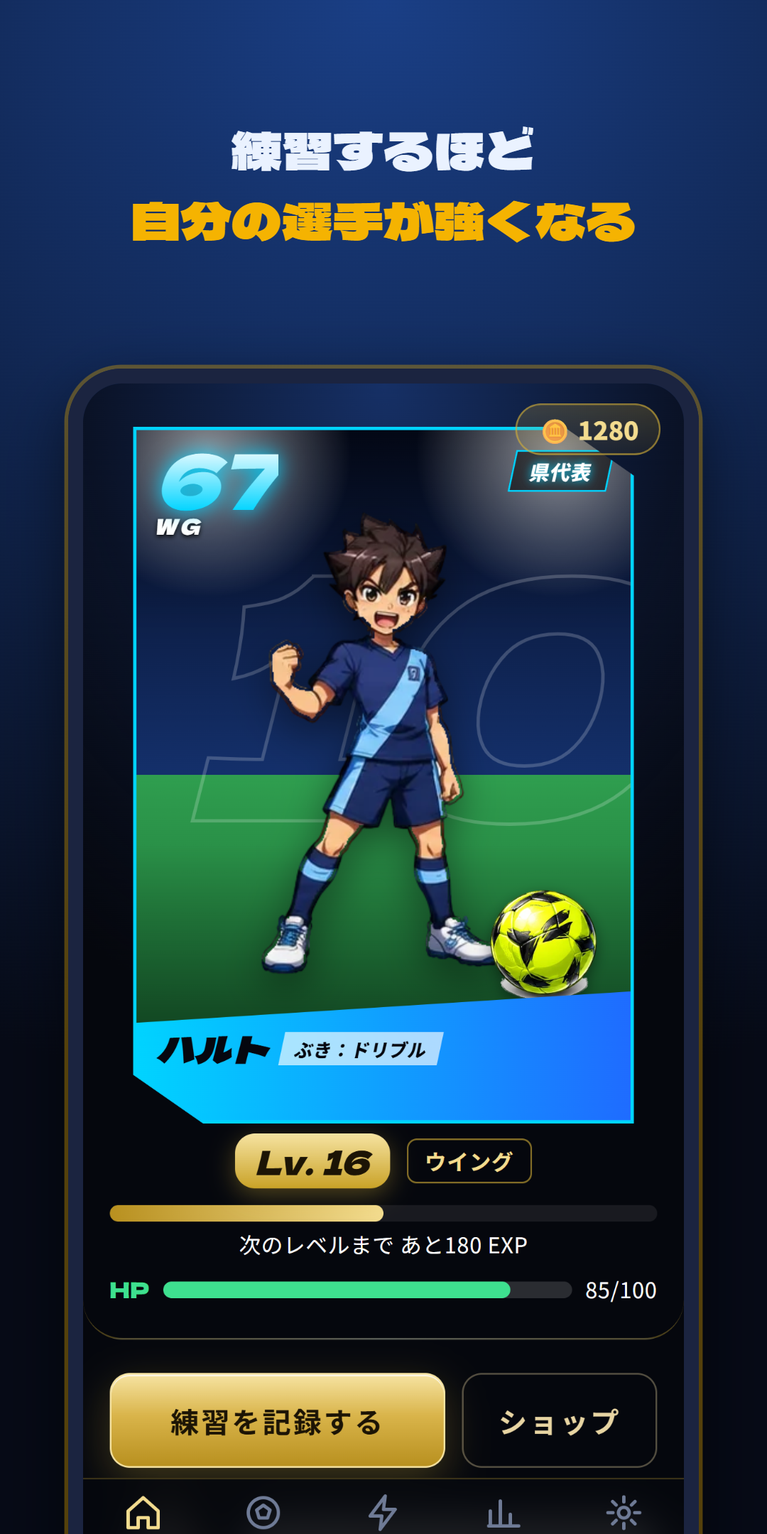
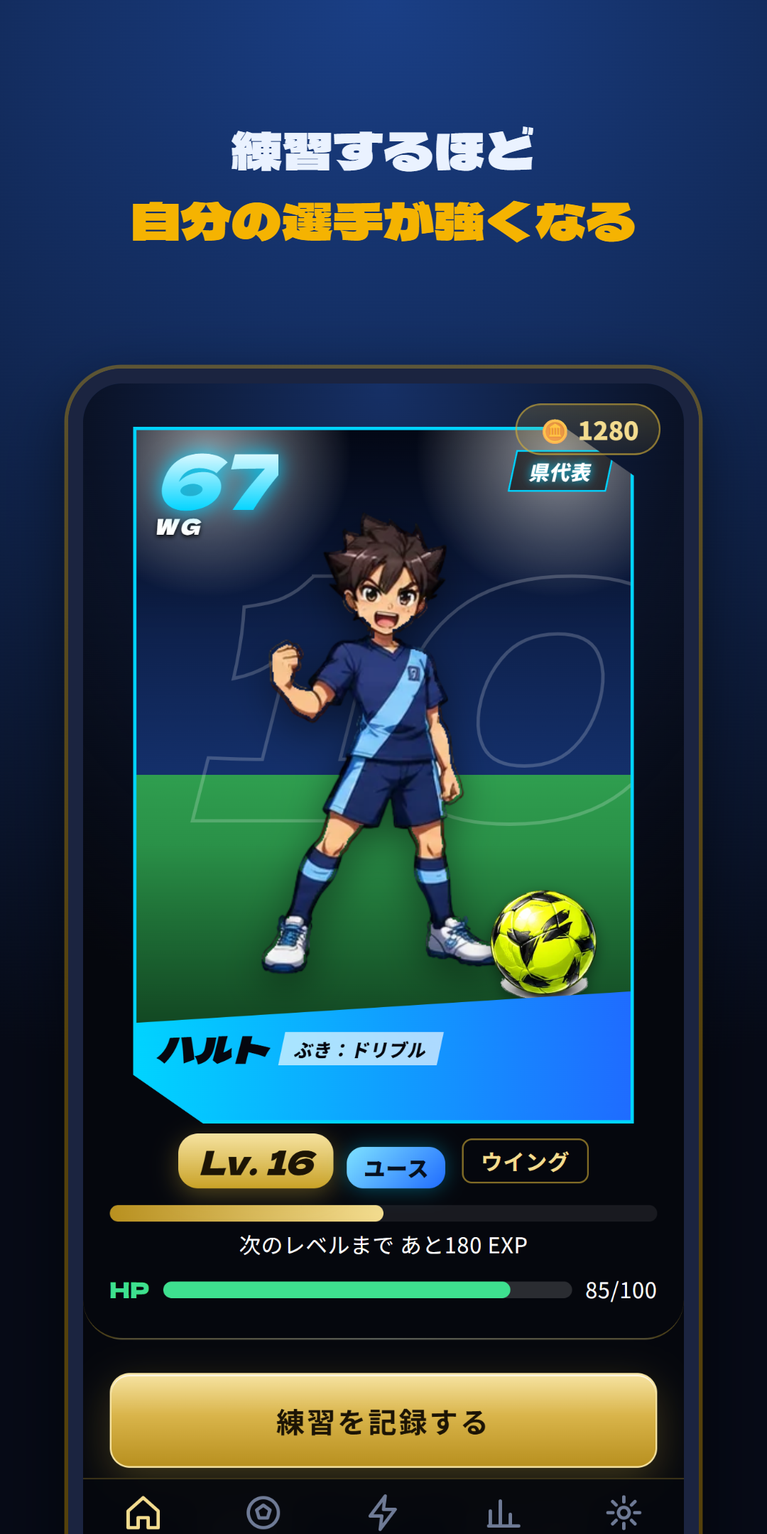
v0.8.0：階級・能力ランク・熟練度メダル・個人技スキル・つよさ画面
- 階級を追加（はじめたばかり→キッズ→ジュニア→ジュニアユース→ユース→アマチュア→プロ→レジェンド）。成長ステージと同じレベルで「昇格！」
- 9つの能力に S〜G のランクと、メダルの色（ビギナー・ブロンズ・シルバー・ゴールド・プラチナ・ダイヤ）
- 練習メニューごとの熟練度メダル（同じ練習の回数で上がる）。一覧・詳細・結果画面に表示
- 個人技スキルを札形式（金スキル・技スキル・心がまえ）にして 12→43 種類に。練習回数で習得、「あと◯回」を表示
- 「つよさ」画面を追加（能力ランク・装備・習得スキルの一覧）。ホームから開ける
- ストア用スクリーンショットを撮り直し（つよさ画面・スキル画面を追加して6枚に）
- テストを追加（25件）
- main（奥さんの v0.6.3〜0.6.5）を取りこみ済み

Changed region(s): [[0.2139, 0.8685, 0.8556, 0.9616], [0.2139, 0.7134, 0.7333, 0.8065]]

diff --git a/app.js b/app.js
@@ -259,20 +259,62 @@ const GEAR = [
   {lv:10, name:'オーラ'}, {lv:15, name:'王冠'}, {lv:20, name:'翼'},
 ];
 /* スキル＝呪文。条件にコーディネーション能力（定位・変換・連結・反応・識別・リズム・バランス）の考え方を使う */
+/* 個人技スキル。tier：gold＝とくに難しい技／blue＝技／green＝心がまえ。name が保存のキー（変えない）
+   need:[練習メニュー, 回数] があるものは「あと◯回」を表示する */
+const SKILL_TIER={gold:{name:'金スキル',ic:'🌟'},blue:{name:'技スキル',ic:'⚽'},green:{name:'心がまえ',ic:'🍀'}};
+const SK=(tier,name,how,ok,need)=>({tier,name,how,ok,need});
+const mcount=(s,id)=>s.logs.filter(l=>l.menu===id).length;
+const mneed=(id,n)=>s=>mcount(s,id)>=n;
 const SKILLS = [
-  {name:'またぎフェイント',  how:'ドリブルを3回練習（リズム）',            ok:s=>cnt(s,'dribble')>=3},
-  {name:'ダブルタッチ',      how:'ドリブル60（連結）',                    ok:s=>rt(s,'dribble')>=60},
-  {name:'クライフターン',    how:'アジリティ60・ドリブル55（変換）',       ok:s=>rt(s,'agility')>=60&&rt(s,'dribble')>=55},
-  {name:'ルーレット',        how:'ドリブル75・ボールタッチ65・バランス60（バランス）', ok:s=>rt(s,'dribble')>=75&&rt(s,'touch')>=65&&rt(s,'balance')>=60},
-  {name:'ヒールリフト',      how:'リフティング連続50回（識別）',           ok:s=>(s.best.lift||0)>=50},
-  {name:'高速カットイン',    how:'スピード65・アジリティ60（反応）',       ok:s=>rt(s,'speed')>=65&&rt(s,'agility')>=60},
-  {name:'インステップキック',how:'シュートを3回練習',                      ok:s=>cnt(s,'shoot')>=3},
-  {name:'コントロールシュート',how:'キック65（識別）',                      ok:s=>rt(s,'kick')>=65},
-  {name:'ボレーシュート',    how:'キック60・バランス60（連結）',           ok:s=>rt(s,'kick')>=60&&rt(s,'balance')>=60},
-  {name:'ワンタッチパス',    how:'パスを5回練習（反応）',                  ok:s=>cnt(s,'pass')>=5},
-  {name:'スルーパス',        how:'キック60・判断力65（定位）',             ok:s=>rt(s,'kick')>=60&&rt(s,'iq')>=65},
-  {name:'ハードワーカー',    how:'スタミナ65',                            ok:s=>rt(s,'stamina')>=65},
+  // 金スキル（とくに難しい技）
+  SK('gold','ルーレット','ドリブル75・ボールタッチ65・バランス60',s=>rt(s,'dribble')>=75&&rt(s,'touch')>=65&&rt(s,'balance')>=60),
+  SK('gold','ヒールリフト','リフティング連続50回',s=>(s.best.lift||0)>=50),
+  SK('gold','エラシコ','「エラシコ」を15回練習',mneed('elastico',15),['elastico',15]),
+  SK('gold','無回転シュート','「シュート」を30回練習・キック75',s=>mcount(s,'shoot')>=30&&rt(s,'kick')>=75,['shoot',30]),
+  SK('gold','ノールックパス','「壁パス ワンタッチ」を15回・判断力70',s=>mcount(s,'wall_1t')>=15&&rt(s,'iq')>=70,['wall_1t',15]),
+  SK('gold','ドリブルの魔術師','「コーン相手の1対1」を15回・ドリブル85',s=>mcount(s,'cone_1v1')>=15&&rt(s,'dribble')>=85,['cone_1v1',15]),
+  SK('gold','超高速ドリブル','「スピードドリブル」を15回・スピード75',s=>mcount(s,'speed_drib')>=15&&rt(s,'speed')>=75,['speed_drib',15]),
+  SK('gold','リフティングマスター','リフティング連続200回',s=>(s.best.lift||0)>=200),
+  // 技スキル
+  SK('blue','またぎフェイント','ドリブルを3回練習',s=>cnt(s,'dribble')>=3),
+  SK('blue','ダブルタッチ','ドリブル60',s=>rt(s,'dribble')>=60),
+  SK('blue','クライフターン','アジリティ60・ドリブル55',s=>rt(s,'agility')>=60&&rt(s,'dribble')>=55),
+  SK('blue','高速カットイン','スピード65・アジリティ60',s=>rt(s,'speed')>=65&&rt(s,'agility')>=60),
+  SK('blue','インステップキック','シュートを3回練習',s=>cnt(s,'shoot')>=3),
+  SK('blue','コントロールシュート','キック65',s=>rt(s,'kick')>=65),
+  SK('blue','ボレーシュート','キック60・バランス60',s=>rt(s,'kick')>=60&&rt(s,'balance')>=60),
+  SK('blue','ワンタッチパス','パスを5回練習',s=>cnt(s,'pass')>=5),
+  SK('blue','スルーパス','キック60・判断力65',s=>rt(s,'kick')>=60&&rt(s,'iq')>=65),
+  SK('blue','足裏コントロール','「足裏コロコロ」を7回練習',mneed('sole_roll',7),['sole_roll',7]),
+  SK('blue','インアウト','「インアウト」を5回練習',mneed('inout',5),['inout',5]),
+  SK('blue','L字ターン','「L字（引いて横へ）」を5回練習',mneed('l_drag',5),['l_drag',5]),
+  SK('blue','Vターン','「Vターン」を5回練習',mneed('v_turn',5),['v_turn',5]),
+  SK('blue','ストップ＆ゴー','「ストップ＆ゴー」を5回練習',mneed('stop_go',5),['stop_go',5]),
+  SK('blue','ターンの名手','「ターン練習」を7回練習',mneed('turn_drill',7),['turn_drill',7]),
+  SK('blue','1対1の突破','「コーン相手の1対1」を7回練習',mneed('cone_1v1',7),['cone_1v1',7]),
+  SK('blue','ピタッとトラップ','「トラップ（止めて蹴る）」を7回練習',mneed('trap',7),['trap',7]),
+  SK('blue','浮き球トラップ','「浮き球トラップ」を5回練習',mneed('air_trap',5),['air_trap',5]),
+  SK('blue','ロングフィード','「ロングキック」を5回練習・キック60',s=>mcount(s,'long_kick')>=5&&rt(s,'kick')>=60,['long_kick',5]),
+  SK('blue','四すみシュート','「四すみねらい」を7回練習',mneed('target',7),['target',7]),
+  SK('blue','ヘディング','「ヘディングリフティング」を5回練習',mneed('lift_head',5),['lift_head',5]),
+  SK('blue','爆発ダッシュ','「ダッシュ」を7回練習・スピード60',s=>mcount(s,'dash')>=7&&rt(s,'speed')>=60,['dash',7]),
+  SK('blue','反応スピード','「反応ダッシュ」を7回練習',mneed('react',7),['react',7]),
+  SK('blue','ステップワーク','「ラダー」を7回練習',mneed('ladder',7),['ladder',7]),
+  SK('blue','空中戦','「なわとび（二重跳び）」を7回・パワー60',s=>mcount(s,'jump')>=7&&rt(s,'power')>=60,['jump',7]),
+  SK('blue','両足使い','「両足交互リフティング」を10回練習',mneed('lift_alt',10),['lift_alt',10]),
+  // 心がまえ
+  SK('green','ハードワーカー','スタミナ65',s=>rt(s,'stamina')>=65),
+  SK('green','コツコツ努力家','30日練習する',s=>practiceDays(s)>=30),
+  SK('green','休むのも上手','宿屋で5回休む',s=>s.logs.filter(l=>l.rest).length>=5),
+  SK('green','研究熱心','「練習ノート」を10回書く',mneed('note',10),['note',10]),
+  SK('green','試合で強い','「試合・ミニゲーム」を10回',mneed('game',10),['game',10]),
+  SK('green','チームプレーヤー','「チーム練習」を10回',mneed('team',10),['team',10]),
+  SK('green','ぶれない体幹','「プランク」を10回練習',mneed('core',10),['core',10]),
+  SK('green','負けずぎらい','ライバルに3回勝つ',s=>(s.bossWins||0)>=3),
+  SK('green','自己ベスト更新王','自己ベストを10回更新',s=>s.logs.filter(l=>l.pb).length>=10),
 ];
+/* スキルの進み具合（0〜1）。練習回数で覚えるものだけ */
+const skillProg=(s,k)=>k.need?Math.min(1,mcount(s,k.need[0])/k.need[1]):null;
 
 /* ===== デイリークエスト ===== */
 const QPOOL=[
@@ -351,7 +393,7 @@ function dressed(s,over){
 }
 
 /* ===== アプリ内ダイアログ（ブラウザ標準の alert/confirm は使わない） ===== */
-const APP_VERSION='0.7.0';
+const APP_VERSION='0.8.0';
 function closeOv(){document.getElementById('ov').classList.remove('show')}
 function dialog({icon='',title,msg='',ok='OK',cancel=null,danger=false}){
   return new Promise(res=>{
@@ -695,6 +737,25 @@ const STAGES=[
 ];
 const POSE_OF=[0,0,1,1,2,3,3,4];
 function stageOf(L){let r=0;STAGES.forEach((x,i)=>{if(L>=x.lv)r=i});return r}
+/* 階級：成長ステージ（舞台）と同じレベルで昇格する、選手としての格 */
+const RANKS=['はじめたばかり','キッズ','ジュニア','ジュニアユース','ユース','アマチュア','プロ','レジェンド'];
+const rankOf=L=>RANKS[stageOf(L)];
+/* メダル：ビギナー→ブロンズ→シルバー→ゴールド→プラチナ→ダイヤ */
+const MEDALS=[{name:'ビギナー',k:'beg'},{name:'ブロンズ',k:'brz'},{name:'シルバー',k:'slv'},{name:'ゴールド',k:'gld'},{name:'プラチナ',k:'plt'},{name:'ダイヤ',k:'dia'}];
+/* 能力ランク（S〜G）。数値の帯ごとにメダルの色 */
+function grade(r){
+  const t=[[90,'S',5],[80,'A',4],[70,'B',3],[60,'C',2],[55,'D',1],[50,'E',1],[45,'F',0],[0,'G',0]].find(x=>r>=x[0]);
+  return {g:t[1],m:MEDALS[t[2]],next:r>=90?null:[90,80,70,60,55,50,45].reverse().find(x=>x>r)};
+}
+const gradeTag=r=>{const G=grade(r);return `<b class="grade ${G.m.k}">${G.g}</b>`};
+/* 練習メニューの熟練度：同じメニューを続けた回数でメダルが上がる */
+const MASTERY=[1,3,7,15,30,50];
+function mastery(s,id){
+  const n=s.logs.filter(l=>l.menu===id).length; let i=-1; MASTERY.forEach((x,j)=>{if(n>=x)i=j});
+  return {n,i,m:i>=0?MEDALS[i]:null,next:MASTERY[i+1]||null};
+}
+const medalTag=(M,small)=>M.m?`<span class="medal ${M.m.k}${small?' sm':''}">${M.m.name}</span>`:'';
+
 /* 画像（img/m1_3.png など）が あれば それを、なければ コードの イラストを ひょうじ */
 /* ===== AIイラストのキャラ（選んで使う） ===== */
 const AVATARS=[
@@ -1014,7 +1075,7 @@ function render(){
   nav.classList.remove('hide');
   nav.querySelectorAll('button').forEach(b=>b.classList.toggle('on',b.dataset.tab===tab));
   if(S)wear(S);
-  app.innerHTML={home:homeView,practice:practiceView,skill:titlesView,log:logView,settings:settingsView,shop:shopView,wardrobe:wardrobeView,report:reportView}[tab]();
+  app.innerHTML={status:statusView,home:homeView,practice:practiceView,skill:titlesView,log:logView,settings:settingsView,shop:shopView,wardrobe:wardrobeView,report:reportView}[tab]();
   if(tab==='shop')bindShop();
   if(tab==='wardrobe')bindWardrobe();
   if(tab==='report')bindReport();
@@ -1067,13 +1128,14 @@ function homeView(){
     <button class="coin" onclick="go('shop')" style="position:absolute;right:14px;top:12px;z-index:5">🪙 ${S.coin||0}</button>
     ${cardView(S,L,stageOf(L))}
     ${t?`<div class="title-badge" style="margin-top:10px">${t.ic} ${t.name}</div><br>`:''}
-    <div class="lv">Lv. ${L}</div> <span class="jobtag">${J.name}</span>
+    <div class="lv">Lv. ${L}</div> <span class="ranktag">${rankOf(L)}</span> <span class="jobtag">${J.name}</span>
     <div class="xpbar"><i style="width:${r/n*100}%"></i></div>
     <div class="xptext">次のレベルまで あと${n-r} EXP</div>
     <div class="hprow"><b>HP</b><div class="hpbar"><i style="width:${hp}%;background:${hp<25?'#ff4d4d':hp<50?'#ffb020':'#3ee08f'}"></i></div><span>${hp}/100</span></div>
   </div>
   <div class="wrap">
-    <div class="row" style="margin:4px 0 16px"><button class="btn gold" onclick="go('practice')" style="flex:2">練習を記録する</button><button class="btn ghost" onclick="go('shop')" style="flex:1">ショップ</button></div>
+    <button class="btn gold" onclick="go('practice')" style="margin:4px 0 10px">練習を記録する</button>
+    <div class="row" style="margin:0 0 16px"><button class="btn ghost" onclick="go('status')" style="flex:1">つよさ</button><button class="btn ghost" onclick="go('shop')" style="flex:1">ショップ</button></div>
     ${buddyCard()}
     ${parentMsgCard()}
     ${hp<25?`<div class="card warn">⚠ HPが少なくなっています。疲れがたまるとケガをしやすくなるよ。今日は宿屋で休もう。</div>`:''}
@@ -1107,7 +1169,7 @@ function practiceView(){
     <p class="sub" style="margin:0 0 12px">🌱＝今の年齢で伸びやすい練習（経験×1.5）　★＝むずかしさ</p>
     <div class="gtabs">${GRPS.map(g=>`<button class="gtab ${g.id===pgrp?'on':''}" data-g="${g.id}"><span>${g.ic}</span>${g.name}</button>`).join('')}</div>
     <div class="mlist">${SPORT.menus.filter(x=>x.grp===pgrp).map(x=>`<button class="mitem" data-m="${x.id}"><div class="mthumb">${diag(x.d)}</div>
-      <div class="minfo"><b>${x.name}</b>${stars(x.lv)}<span class="sub">${Object.keys(x.gain).slice(0,2).map(statName).join('・')}</span></div>
+      <div class="minfo"><b>${x.name}</b>${stars(x.lv)}${medalTag(mastery(S,x.id),1)}<span class="sub">${Object.keys(x.gain).slice(0,2).map(statName).join('・')}</span></div>
       ${boost.includes(Object.keys(x.gain)[0])?'<em class="nobi">🌱</em>':''}</button>`).join('')}</div>
   </div>`;
   return `<div class="wrap">
@@ -1117,6 +1179,7 @@ function practiceView(){
       <ol class="how">${m.how.map(h=>`<li>${h}</li>`).join('')}</ol>
       <div class="legend"><span><i style="background:#ffd84a"></i>ボールの動き</span><span><i style="background:#eaf2ff"></i>人の動き</span><span><i style="background:#ff8a00"></i>コーン</span></div>
     </div>
+    ${(()=>{const Q=mastery(S,m.id);return `<div class="card mastcard"><h3>熟練度 ${medalTag(Q)||'<span class="sub">まだ練習していない</span>'}</h3><p class="sub" style="margin:6px 0 0">この練習をした回数：<b style="color:var(--ink)">${Q.n}回</b>${Q.next?`　次のメダルまで あと${Q.next-Q.n}回`:'　最高ランク！'}</p>${SKILLS.filter(k=>k.need&&k.need[0]===m.id&&!(S.skills||[]).includes(k.name)).map(k=>`<p class="sub" style="margin:4px 0 0">${SKILL_TIER[k.tier].ic} あと${Math.max(0,k.need[1]-Q.n)}回で「${k.name}」を習得できるかも</p>`).join('')}</div>`})()}
     <div class="card"><h3>上がる能力</h3><p style="margin:6px 0 0">${Object.entries(m.gain).map(([id,w])=>`${statName(id)}<b class="gmark">${w>=1?'◎':w>=.4?'○':'△'}</b>`).join('　')}${boost.includes(Object.keys(m.gain)[0])?'　<span class="nobitag">🌱 のびどき</span>':''}</p></div>
     <div class="card"><h3>練習時間</h3>
       <div class="big"><span id="minv">${draft.min}</span> 分</div>
@@ -1171,7 +1234,9 @@ function doPractice(){
   notes.unshift(...(ups.length?ups:[`${statName(Object.keys(m.gain)[0])}の経験がたまった（もうすぐアップ）`]));
   if(Object.keys(m.gain).some(id=>boost.includes(id))) notes.push('🌱 のびどきボーナス ×1.5');
   if(jobMult(J,Object.keys(m.gain)[0])>1) notes.push(`⚽ ${J.name}の職業ボーナス`);
+  const mb=mastery(S,m.id).i;
   S.logs.unshift({date:today(),menu:m.id,min:draft.min,rec,xp,pb});
+  {const ma=mastery(S,m.id);if(ma.i>mb)notes.push(`🏅 「${m.name}」の熟練度が <b>${ma.m.name}</b> に上がった！`)}
   S.hp=Math.max(0,S.hp-draft.min/2);
   const q=checkQuests(); xp+=q.xp; coin+=q.coin; notes.push(...q.notes);
   const bb=checkBoss(m,rec); xp+=bb.xp; coin+=bb.coin; notes.push(...bb.notes);
@@ -1203,7 +1268,7 @@ function gain(xp,notes,coin=0){
   S.xp+=xp;
   const after=lv(S.xp).L;
   if(after>before){S.bp=(S.bp||0)+3*(after-before);notes.push(`育成ポイント +${3*(after-before)}`)}
-  if(stageOf(after)>stageOf(before)){const R=STAGES[stageOf(after)];notes.push(`ステージアップ！ <b>${R.name}</b>に進出！`)}
+  if(stageOf(after)>stageOf(before)){const R=STAGES[stageOf(after)];notes.push(`昇格！ 階級が <b>${rankOf(after)}</b> になった！`);notes.push(`ステージアップ！ <b>${R.name}</b>に進出！`)}
   const {newT,newS}=unlocks();
   const gear=GEAR.filter(g=>g.lv>before&&g.lv<=after);
   coin+=newT.length*30+(stageOf(after)>stageOf(before)?200:0);
@@ -1227,11 +1292,11 @@ function showResult(xp,b,a,newT,gear,notes,newS=[]){
   if(up)confetti();
   let items=notes.map(n=>`<li>${n}</li>`).join('');
   gear.forEach(g=>items+=`<li>新しい装備：${g.name}</li>`);
-  newS.forEach(k=>items+=`<li>スキル習得：${k.name}</li>`);
+  newS.forEach(k=>items+=`<li>スキル習得：<span class="skchip ${k.tier}">${k.name}</span></li>`);
   newT.forEach(t=>items+=`<li>称号ゲット：${t.ic} ${t.name}</li>`);
   document.getElementById('ovbox').innerHTML=`
     <div class="star">${boltImg(awk?'trophy':up?'joy':newT.length||newS.length?'wow':'cheer','big')}</div>
-    <h2>${awk?'ステージアップ！':up?'レベルアップ！':xp?'+'+xp+' EXP':'習得！'}</h2>
+    <h2>${awk?'昇格！':up?'レベルアップ！':xp?'+'+xp+' EXP':'習得！'}</h2>
     ${up?`<p style="font-size:22px;font-weight:800;margin:0">Lv.${b} → <span style="color:var(--gold)">Lv.${a}</span></p><p class="sub">+${xp} EXP</p>`:'<p class="sub">よくがんばったね！</p>'}
     <ul>${items}</ul>
     <button class="btn" onclick="document.getElementById('ov').classList.remove('show')">やったね！</button>`;
@@ -1249,6 +1314,52 @@ function collection(){
   const all=TITLES.length+SKILLS.length+STAGES.length+items.length;
   return {have,all,p:Math.round(have/all*100)};
 }
+function skillBoard(){
+  const got=S.skills||[];
+  return Object.entries(SKILL_TIER).map(([t,T])=>{
+    const L=SKILLS.filter(k=>k.tier===t);
+    return `<h3 class="skhead ${t}">${T.ic} ${T.name}　<small>${L.filter(k=>got.includes(k.name)).length}/${L.length}</small></h3>
+    <div class="skgrid">${L.map(k=>{const ok=got.includes(k.name), pr=skillProg(S,k);
+      return ok?`<div class="skchip ${t}">${k.name}</div>`
+        :`<div class="skchip lock"><b>？？？</b><small>${k.how}</small>${pr!=null?`<span class="tprog"><i style="width:${pr*100}%"></i></span>`:''}</div>`}).join('')}</div>`}).join('');
+}
+function statusView(){
+  const {L,r,n}=lv(S.xp), J=jobOf(S), w=wear(S), c=norm(S.c);
+  const item=(cat,id)=>(SHOP.find(x=>x.cat===cat).items.find(i=>i.id===id)||{}).name||'—';
+  const got=SKILLS.filter(k=>(S.skills||[]).includes(k.name)).sort((a,b)=>'gold,blue,green'.indexOf(a.tier)-'gold,blue,green'.indexOf(b.tier));
+  return `<div class="wrap stv">
+    <button class="chip mini" onclick="go('home')" style="margin:4px 0 10px">‹ ホーム</button>
+    <div class="dqwin stv-top">
+      <div class="stv-l">
+        <div class="stv-name">${esc(c.name)}</div>
+        <div class="stv-rank">${rankOf(L)}</div>
+        <div class="stv-row"><span>職業</span><b>${J.name}</b></div>
+        <div class="stv-row"><span>レベル</span><b>${L}</b></div>
+        <div class="stv-row"><span>EXP</span><b>${S.xp}</b></div>
+        <div class="stv-row"><span>次まで</span><b>${n-r}</b></div>
+        <div class="stv-row"><span>総合</span><b>${ovr(S)}</b></div>
+        <div class="stv-row"><span>コイン</span><b>${S.coin||0}</b></div>
+      </div>
+      <div class="stv-r">${SPORT.stats.map(x=>{const v=rt(S,x.id);return `<div class="stv-st"><span>${x.name}</span>${gradeTag(v)}<b>${v}</b></div>`}).join('')}</div>
+    </div>
+    <div class="dqwin stv-bot">
+      <div class="stv-char">${cardView(S,L,stageOf(L),{mini:1})}</div>
+      <div class="stv-eq">
+        <div class="stv-eqh">そうび</div>
+        <div class="stv-row"><span>⚽ ボール</span><b>${item('ball',w.ball)}</b></div>
+        <div class="stv-row"><span>👟 スパイク</span><b>${item('boot',w.boot)}</b></div>
+        <div class="stv-row"><span>👕 ユニフォーム</span><b>${item('kit',w.kit)}</b></div>
+        <div class="stv-row"><span>🏟 背景</span><b>${item('bg',w.bg)}</b></div>
+        <button class="chip mini" onclick="go('wardrobe')" style="margin-top:8px">着せ替え ›</button>
+      </div>
+    </div>
+    <div class="dqwin"><div class="stv-eqh">個人技スキル　<small>${got.length} / ${SKILLS.length}</small></div>
+      <div class="skgrid">${got.length?got.map(k=>`<div class="skchip ${k.tier}">${k.name}</div>`).join(''):'<p class="sub" style="margin:4px 0">まだ習得していないよ。練習を続けてみよう！</p>'}</div>
+      <button class="chip mini" onclick="go('skill')" style="margin-top:10px">スキル一覧 ›</button></div>
+    <div class="dqwin"><div class="stv-eqh">能力ランクの見かた</div>
+      <p class="sub" style="margin:4px 0 0;line-height:1.9">${[['G・F',0],['E・D',1],['C',2],['B',3],['A',4],['S',5]].map(([g,i])=>`<span class="medal ${MEDALS[i].k} sm">${MEDALS[i].name}</span> ${g}`).join('　')}</p></div>
+  </div>`;
+}
 function titlesView(){
   const got=S.titles.length, C=collection();
   return `<div class="wrap">
@@ -1261,9 +1372,9 @@ function titlesView(){
       return ok?`<button class="t ${on?'eq':''}" data-job="${j.id}" style="font:inherit;text-align:left;cursor:pointer;color:inherit"><span class="ic">${j.up?'👑':j.id==='none'?'🔰':'⚽'}</span><span><b>${j.name}${j.up?' <small class="upj">上級職</small>':''}</b><span class="sub">${on?'✔ 今の職業':'伸びやすい：'+grow}</span></span></button>`
       :`<div class="t lock"><span class="ic">🔒</span><span><b>${j.name} <small class="upj">上級職</small></b><span class="sub">条件：${j.how}</span></span></div>`}).join('')}</div>
 
-    <h2 style="margin:20px 0 4px">スキル（呪文）</h2>
-    <p class="sub" style="margin:0 0 12px">練習を続けると技を習得できるよ。</p>
-    <div class="tlist">${SKILLS.map(k=>{const ok=(S.skills||[]).includes(k.name);return `<div class="t ${ok?'':'lock'}"><span class="ic">${ok?'🔥':'🔒'}</span><span><b>${ok?k.name:'？？？'}</b><span class="sub">${k.how}</span></span></div>`}).join('')}</div>
+    <h2 style="margin:20px 0 4px">個人技スキル</h2>
+    <p class="sub" style="margin:0 0 10px">同じ練習を続けたり、能力を上げたりすると技を習得できるよ。${(S.skills||[]).length} / ${SKILLS.length}</p>
+    ${skillBoard()}
     <h2 style="margin:20px 0 4px">成長カード</h2>
     <p class="sub" style="margin:0 0 12px">おうちの庭からワールドクラスまで。レベルが上がると次のステージへ。</p>
     <div class="cgrid">${STAGES.map((r,i)=>cardView(S,r.lv,i,{mini:1,locked:lv(S.xp).L<r.lv})).join('')}</div>

diff --git a/app.css b/app.css
@@ -353,3 +353,44 @@ input[type=checkbox]{width:20px;height:20px;accent-color:var(--gold)}
 @keyframes hop{0%{transform:scale(.6) translateY(10px)}100%{transform:none}}
 .buddycard .boltimg{animation:hop .5s cubic-bezier(.2,1.6,.4,1),bob 2.6s ease-in-out .5s infinite}
 .ov .star .boltimg{animation:pop .6s cubic-bezier(.2,1.6,.4,1)}
+
+/* ===== 階級・メダル・個人技スキル・つよさ画面（v0.8.0） ===== */
+.ranktag{display:inline-block;vertical-align:middle;margin-left:4px;padding:3px 10px;border-radius:10px;font-weight:900;font-size:13px;color:#06101f;background:linear-gradient(135deg,#7fe3ff,#1f6bff);box-shadow:0 0 12px rgba(0,212,255,.35)}
+.medal{display:inline-block;margin-left:6px;padding:1px 7px;border-radius:8px;font-size:11px;font-weight:900;vertical-align:middle;color:#141414;line-height:1.6}
+.medal.sm{font-size:10px;padding:0 6px}
+.minfo .medal{margin-left:0;margin-top:2px;align-self:flex-start}
+.beg{background:#5c6678;color:#eef2fa}
+.brz{background:linear-gradient(135deg,#f0b27a,#a0522d)}
+.slv{background:linear-gradient(135deg,#ffffff,#9aa6b8)}
+.gld{background:linear-gradient(135deg,#fff1a8,#e0a800)}
+.plt{background:linear-gradient(135deg,#e6fffb,#5fd4c4)}
+.dia{background:linear-gradient(135deg,#ffd6f5,#9ad0ff,#b5ffd9);box-shadow:0 0 10px rgba(180,220,255,.7)}
+.grade{display:inline-flex;align-items:center;justify-content:center;width:22px;height:22px;border-radius:6px;font-family:"Dela Gothic One",sans-serif;font-size:14px;font-weight:400;color:#141414}
+.mastcard h3{display:flex;align-items:center;gap:4px}
+.skhead{margin:14px 0 8px;font-size:15px}
+.skhead small{color:var(--sub);font-weight:700}
+.skhead.gold{color:#ffd54a}.skhead.blue{color:#7fc4ff}.skhead.green{color:#7be6a6}
+.skgrid{display:grid;grid-template-columns:repeat(2,1fr);gap:6px}
+.skchip{display:flex;flex-direction:column;justify-content:center;min-height:38px;padding:6px 10px;border-radius:8px;font-weight:900;font-size:13px;color:#0b1220;border:2px solid rgba(0,0,0,.35);box-shadow:inset 0 -3px 0 rgba(0,0,0,.18)}
+li .skchip{display:inline-flex;min-height:0;padding:1px 8px;font-size:13px}
+.skchip.gold{background:linear-gradient(180deg,#fff3b0,#f0b400);box-shadow:0 0 10px rgba(245,179,1,.45),inset 0 -3px 0 rgba(0,0,0,.18)}
+.skchip.blue{background:linear-gradient(180deg,#bfe3ff,#4aa3ff)}
+.skchip.green{background:linear-gradient(180deg,#d4ffe4,#46c97a)}
+.skchip.lock{background:var(--chip);color:var(--sub);border:1px dashed var(--line);box-shadow:none;font-size:13px}
+.skchip.lock small{font-weight:600;font-size:11px;line-height:1.4;margin-top:2px}
+.skchip .tprog{margin-top:4px}
+.dqwin{background:#05080f;border:3px solid #eaf2ff;border-radius:10px;box-shadow:0 0 0 2px #05080f,0 0 0 4px rgba(234,242,255,.25);padding:12px 14px;margin-bottom:14px}
+.stv-top{display:grid;grid-template-columns:1fr 1.15fr;gap:12px}
+.stv-l{border-right:1px solid rgba(234,242,255,.2);padding-right:10px}
+.stv-name{font-size:20px;font-weight:900;letter-spacing:1px}
+.stv-rank{display:inline-block;margin:4px 0 8px;padding:2px 8px;border-radius:8px;font-size:12px;font-weight:900;color:#06101f;background:linear-gradient(135deg,#7fe3ff,#1f6bff)}
+.stv-row{display:flex;justify-content:space-between;gap:6px;font-size:13px;line-height:1.9}
+.stv-row span{color:var(--sub)}
+.stv-row b{text-align:right}
+.stv-st{display:grid;grid-template-columns:1fr 24px 28px;align-items:center;gap:6px;font-size:13px;line-height:1.75}
+.stv-st b:last-child{text-align:right;font-variant-numeric:tabular-nums}
+.stv-bot{display:grid;grid-template-columns:.9fr 1.1fr;gap:12px;align-items:center}
+.stv-char .pc{margin:0}
+.stv-eqh{font-weight:900;color:var(--gold);margin-bottom:6px}
+.stv-eqh small{color:var(--sub)}
+.stv-eq .stv-row{font-size:12px}

diff --git a/tools/store_shots.js b/tools/store_shots.js
@@ -16,10 +16,11 @@ const TYPES = { '.html': 'text/html; charset=utf-8', '.js': 'text/javascript; ch
 // 撮る画面と、上にのせる説明文
 const SHOTS = [
   { tab: 'home', file: '1-home', cap: '練習するほど<br><em>自分の選手が強くなる</em>' },
-  { tab: 'practice', file: '2-practice', cap: '52種類の練習メニューを<br><em>イラストでわかりやすく</em>' },
-  { tab: 'skill', file: '3-skill', cap: '9つの能力・職業・スキルで<br><em>自分だけの選手に</em>' },
-  { tab: 'log', file: '4-log', cap: 'カレンダーで<br><em>続けた日がひと目でわかる</em>' },
-  { tab: 'shop', file: '5-shop', cap: 'コインをためて<br><em>ボールやスパイクを着せ替え</em>' },
+  { tab: 'status', file: '2-status', cap: '能力ランクと階級で<br><em>成長がひと目でわかる</em>' },
+  { tab: 'practice', file: '3-practice', cap: '52種類の練習メニューを<br><em>イラストでわかりやすく</em>' },
+  { tab: 'skill', file: '4-skill', cap: '練習を続けて<br><em>個人技スキルを習得</em>', js: "document.querySelector('.skhead').scrollIntoView()" },
+  { tab: 'log', file: '5-log', cap: 'カレンダーで<br><em>続けた日がひと目でわかる</em>' },
+  { tab: 'shop', file: '6-shop', cap: 'コインをためて<br><em>ボールやスパイクを着せ替え</em>' },
 ];
 const DEVICES = [
   { dir: 'iphone', w: 440, h: 956, dpr: 3 },   // 1320×2868
@@ -83,7 +84,7 @@ async function main() {
       await c.send('Page.navigate', { url: base + '/index.html' }, s); await sleep(2000);
       const raw = [];
       for (const S of SHOTS) {
-        await ev(`document.getElementById('ov').classList.remove('show');go('${S.tab}');window.scrollTo(0,0);1`); await sleep(900);
+        await ev(`document.getElementById('ov').classList.remove('show');go('${S.tab}');window.scrollTo(0,0);${S.js||''};1`); await sleep(900);
         const f = path.join(OUT, D.dir, 'raw', S.file + '.png'); await shot(f); raw.push({ ...S, f });
       }
       // 説明文つきのストア画像

diff --git a/sw.js b/sw.js
@@ -1,6 +1,6 @@
 /* オフラインでも起動できるようにする Service Worker
    アプリを更新したら VERSION を上げると、古いキャッシュが入れかわる */
-const VERSION = 'rq-0.7.0';
+const VERSION = 'rq-0.8.0';
 const CORE = ['./', './index.html', './app.css', './app.js', './manifest.webmanifest',
   './icons/icon-192.png', './icons/icon-512.png', './icons/apple-touch-icon.png', './fonts/fonts.css'];
 

diff --git a/CLAUDE.md b/CLAUDE.md
@@ -48,6 +48,8 @@
 
 ## 主な仕組み（app.js）
 - 能力9種 `SPORT.stats`／練習メニュー52種 `MENUS`（図解 `diag()`）／職業 `JOBS`／称号 `TITLES`／スキル `SKILLS`
+- 階級 `RANKS`（ステージと同じレベルで昇格）／能力ランクS〜G `grade()`／メダル `MEDALS`（ビギナー→ダイヤ）／練習の熟練度 `mastery()`
+- 個人技スキル `SKILLS`（金・技・心がまえの札。`name` は保存のキーなので変えない）／つよさ画面 `statusView()`
 - 成長ステージ8段階 `STAGES`（おうちの庭→公園→チーム入団→トレセン→県代表→地方代表→日本代表→ワールドクラス）
 - クエスト `QPOOL`／ライバル `BOSSES`／宝箱 `openChest()`／月間ロード `roadReward()`／お守り・ふりかえり `dailyCheck()`
 - ショップ `BALLS` `BOOTS` `KITS` `BGS`（`price:-1` は非売品）／相棒ボルト `buddyLines()`・`BOLT`
